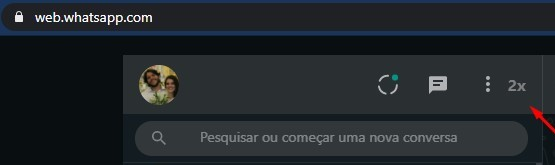
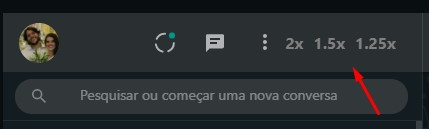
1.5x and 1.25x audio speed options added :sound:

diff --git a/content.js b/content.js
@@ -2,24 +2,50 @@ const interval = setInterval(() =>{
   const header = document.querySelector("._2O84H")
   if(header){
     console.log(header)
-      clearInterval(interval)
+    clearInterval(interval)
 
-    const button = document.createElement("button")
-    button.innerHTML = "2x"
-    button.classList.add("twoTimesButton")
+    const button2x = document.createElement("button")
+    button2x.innerHTML = "2x"
+    button2x.classList.add("fastButton")
 
-    button.addEventListener("click",()=>{
+    button2x.addEventListener("click",()=>{
       console.log("Botao pressionado")
       const audios = document.querySelectorAll("audio");
       audios.forEach((audio)=>{
-        console.log("Audio ajustado")
+        console.log("Audio ajustado 2x")
         audio.playbackRate = 2;
       })
     })
 
+    const button15x = document.createElement("button")
+    button15x.innerHTML = "1.5x"
+    button15x.classList.add("fastButton")
 
-    header.appendChild(button)
+    button15x.addEventListener("click",()=>{
+      console.log("Botao pressionado")
+      const audios = document.querySelectorAll("audio");
+      audios.forEach((audio)=>{
+        console.log("Audio ajustado 1.5x")
+        audio.playbackRate = 1.5;
+      })
+    })
 
+    const button125x = document.createElement("button")
+    button125x.innerHTML = "1.25x"
+    button125x.classList.add("fastButton")
+
+    button125x.addEventListener("click",()=>{
+      console.log("Botao pressionado")
+      const audios = document.querySelectorAll("audio");
+      audios.forEach((audio)=>{
+        console.log("Audio ajustado 1.25x")
+        audio.playbackRate = 1.25;
+      })
+    })
+
+    header.appendChild(button2x)
+    header.appendChild(button15x)
+    header.appendChild(button125x)
 
   }
 }, 1000)

diff --git a/style.css b/style.css
@@ -1,7 +1,8 @@
-.twoTimesButton{
+.fastButton{
   color: gray;
   font-size: 1rem;
   font-weight: bold;
   background-color: transparent;
   border: none;
+  margin-right: 10px;
 }
